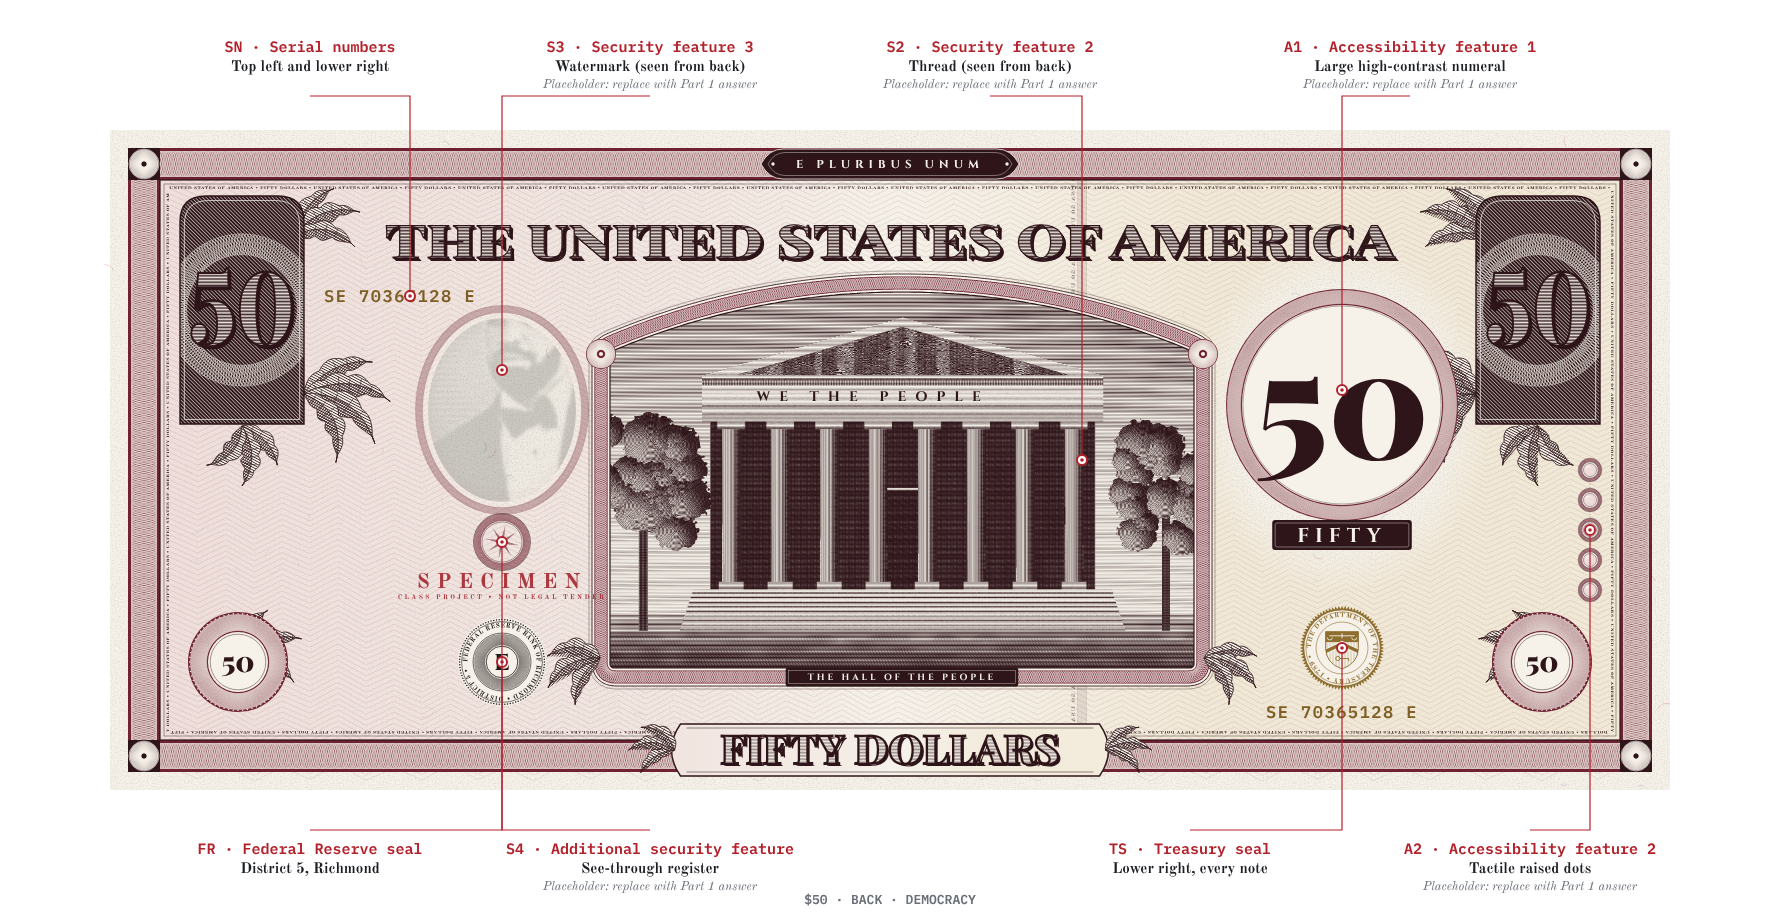
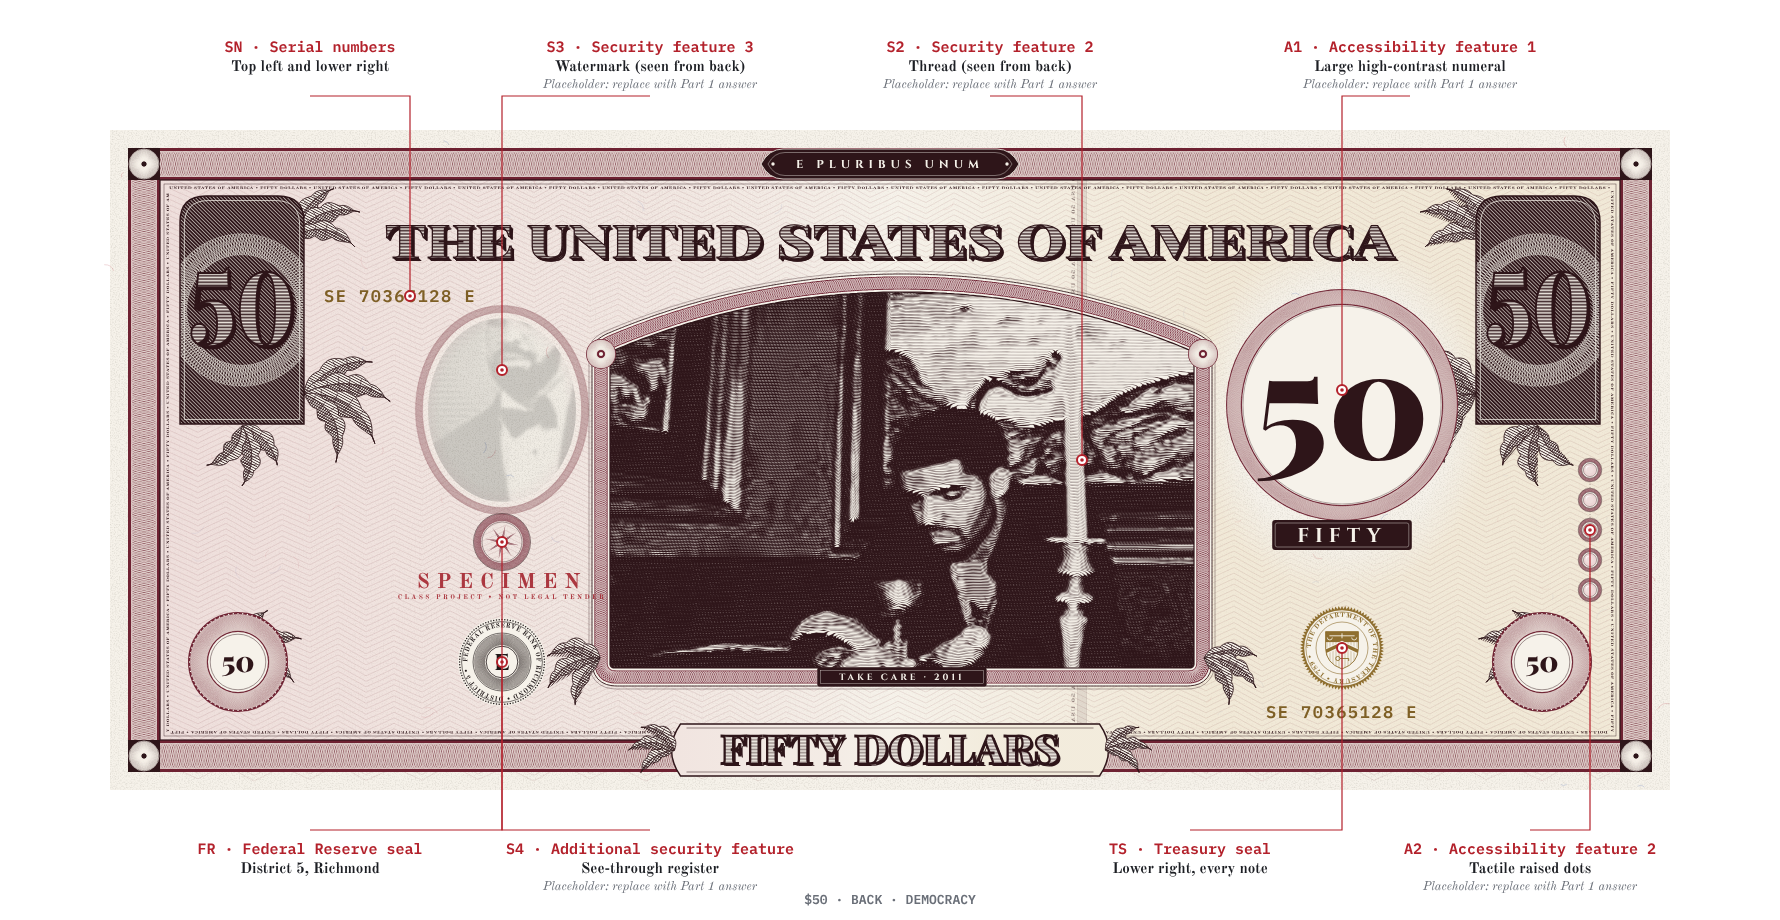
Use the Take Care scene on the $50 back
Claude-Session: https://claude.ai/code/session_015KBLhp8b1QN2JqUJfMzhqz

Changed region(s): [[0.3399, 0.3043, 0.6798, 0.7609]]

diff --git a/generator/design/notes.js b/generator/design/notes.js
@@ -24,7 +24,7 @@ const DENOMS = {
        plate: "#2e1519", primary: "#6e2232", secondary: "#a88645", tint1: "#ecd7d6", tint2: "#efe5cf", paper: "#f6f2ea",
        pattern: "chevron", patternOpts: { gap: 5.5 }, serialInk: "#7e5f25", sealColor: "#8f6f30", ovi: ["#6a2a1f", "#b7874a", "#8c9a55", "#2f5e45"],
        sealInk: "#1f1718", district: 5, letter: "E", city: "RICHMOND", serial: "SE 70365128 E", plateNo: "B 11", check: "E 6",
-       thread: 588, dots: 5, front: { scene: "fifty-front", caption: "DRAKE" }, back: { scene: "fifty-back", caption: "THE HALL OF THE PEOPLE", overlay: (n, v) => plainText("WE THE PEOPLE", v.x0 + .7 * (v.y1 - v.y0), v.y0 + .2905 * (v.y1 - v.y0), `700 14px ${FONT.caps}`, n.plate, { ls: 9 }) } },
+       thread: 588, dots: 5, front: { scene: "fifty-front", caption: "DRAKE" }, back: { scene: "fifty-back", caption: "TAKE CARE \u00b7 2011"} },
   100: { v: 100, word1: "ONE HUNDRED", words: "ONE HUNDRED DOLLARS", theme: "Unity",
        plate: "#141b30", primary: "#23345f", secondary: "#8e99a8", tint1: "#d7dceb", tint2: "#e4e7ec", paper: "#f3f3f1",
        pattern: "flow", patternOpts: { gap: 5 }, serialInk: "#2f4a78", sealColor: "#5d6878", ovi: ["#5e3a1c", "#b88c52", "#6e8f86", "#26505f"],

diff --git a/generator/portraits/prep.py b/generator/portraits/prep.py
@@ -96,6 +96,7 @@ outputs = {
     "one-front": oval("washington-bill.png", 341, 163, 63, 81, .7),
     "one-back": scene("delaware.png", (380, 0, 422)),
     "five-back": scene("wardogs-scene.png", (349, 0, 420), gamma=.75),
+    "fifty-back": scene("takecare.png", (112, 18, 156), blur=.4, gamma=.7),
     "five-front": person("hill.png", (186, 74, 250)),
     "ten-front": person("jobs.png", (180, 0, 411), not_white=True),
     "hundred-front": person("dicaprio.png", (229, 138, 330), keep_x=(110, 340)),
